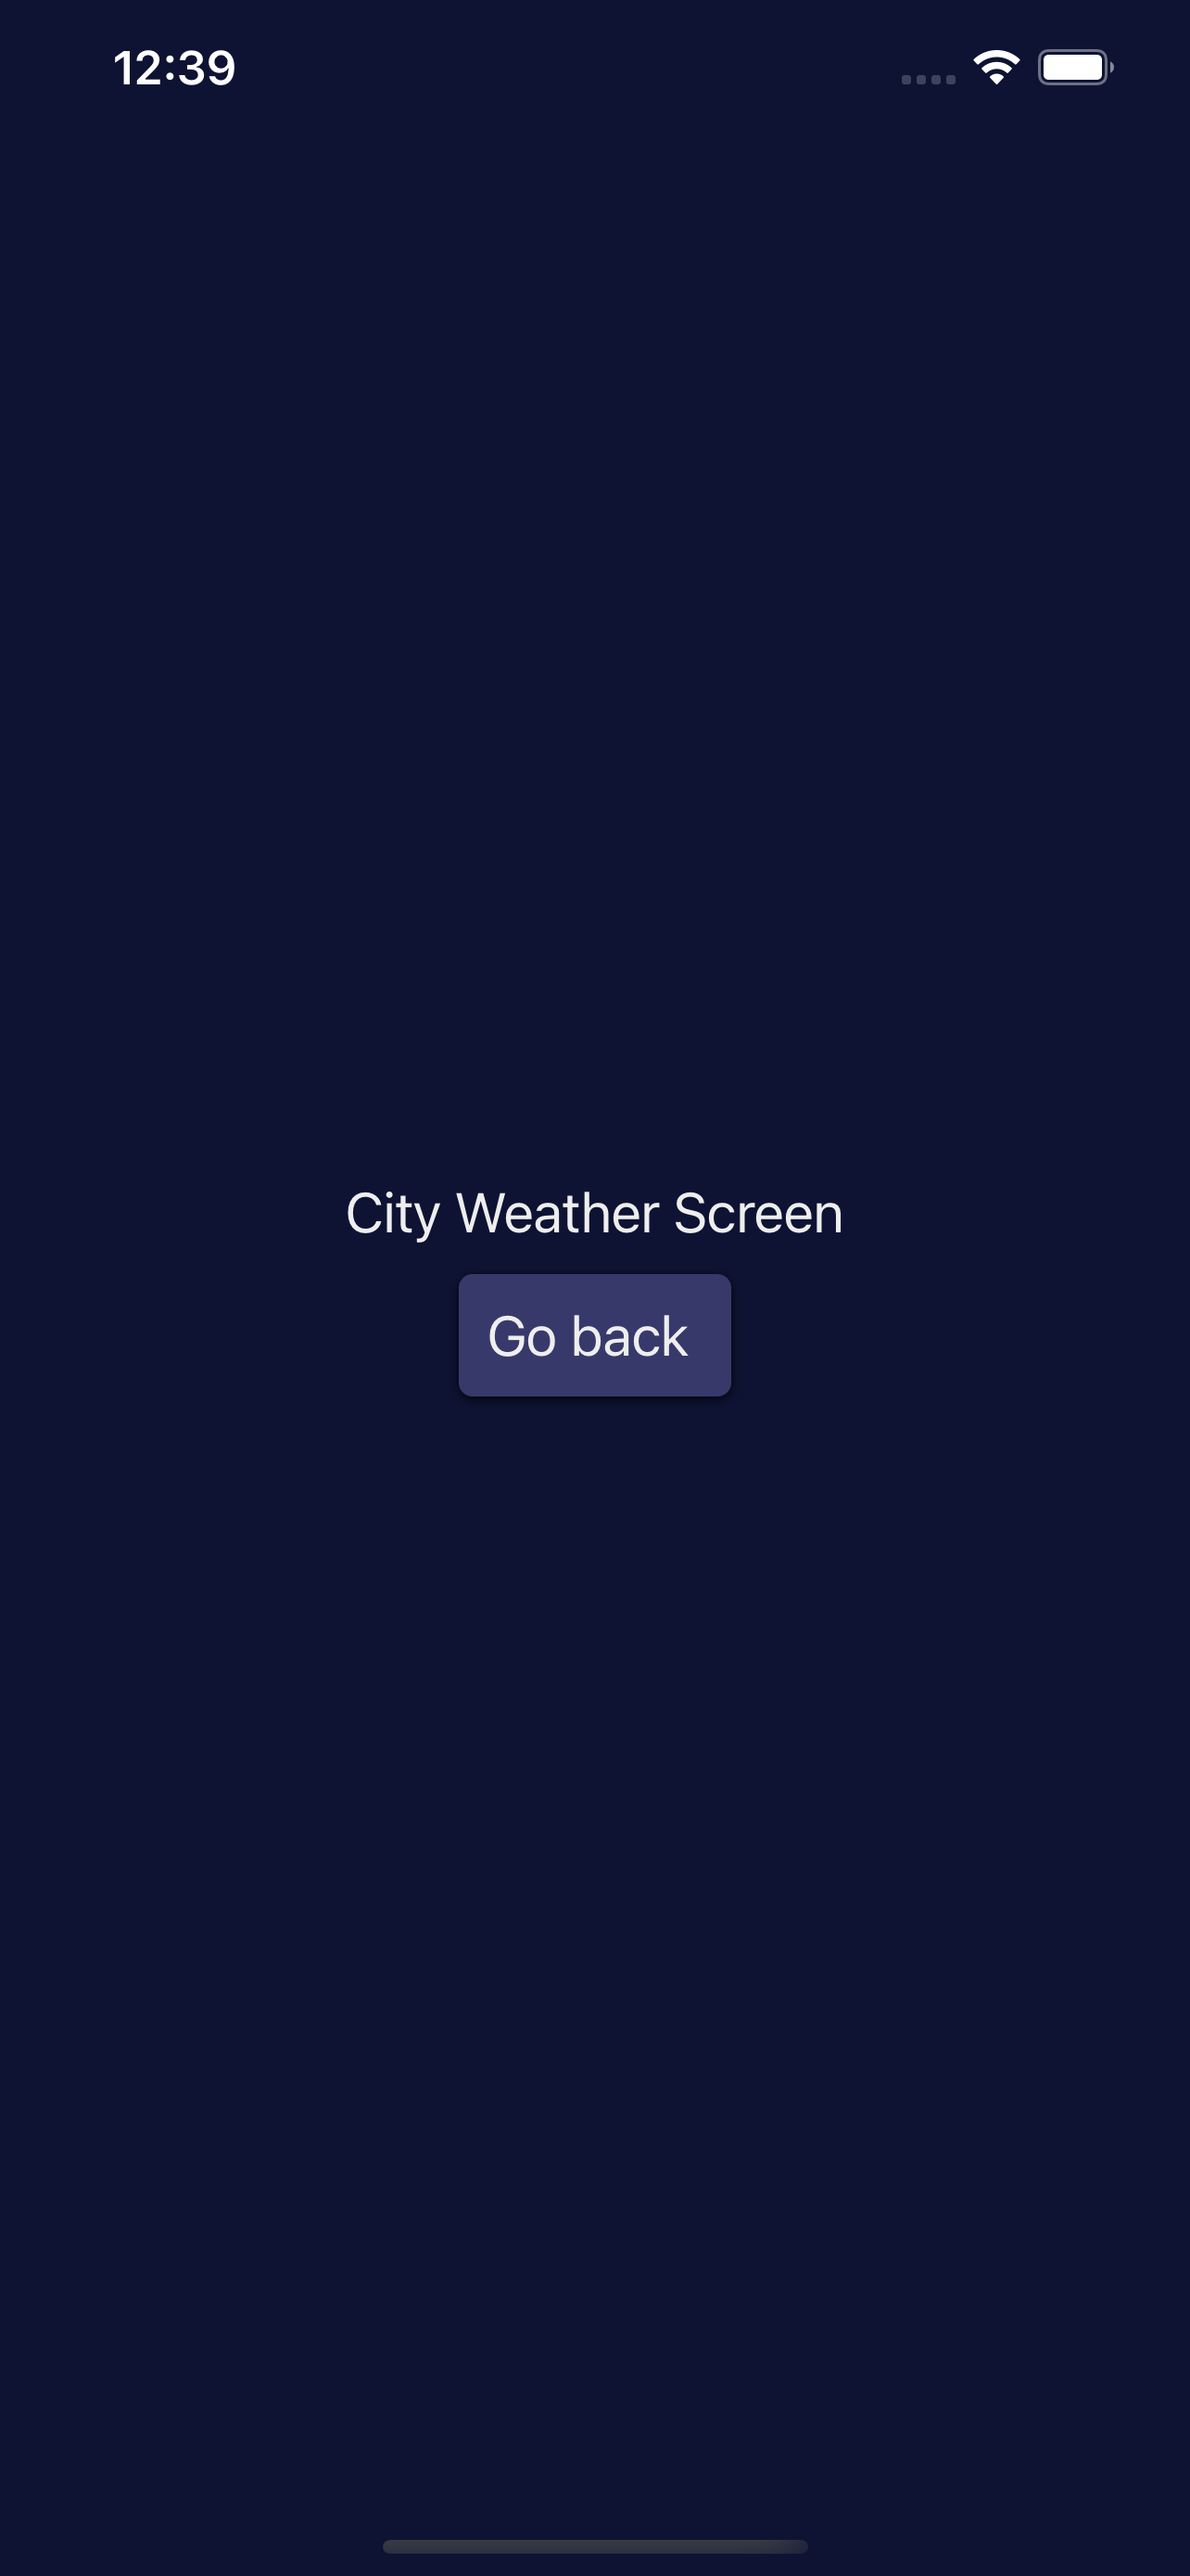
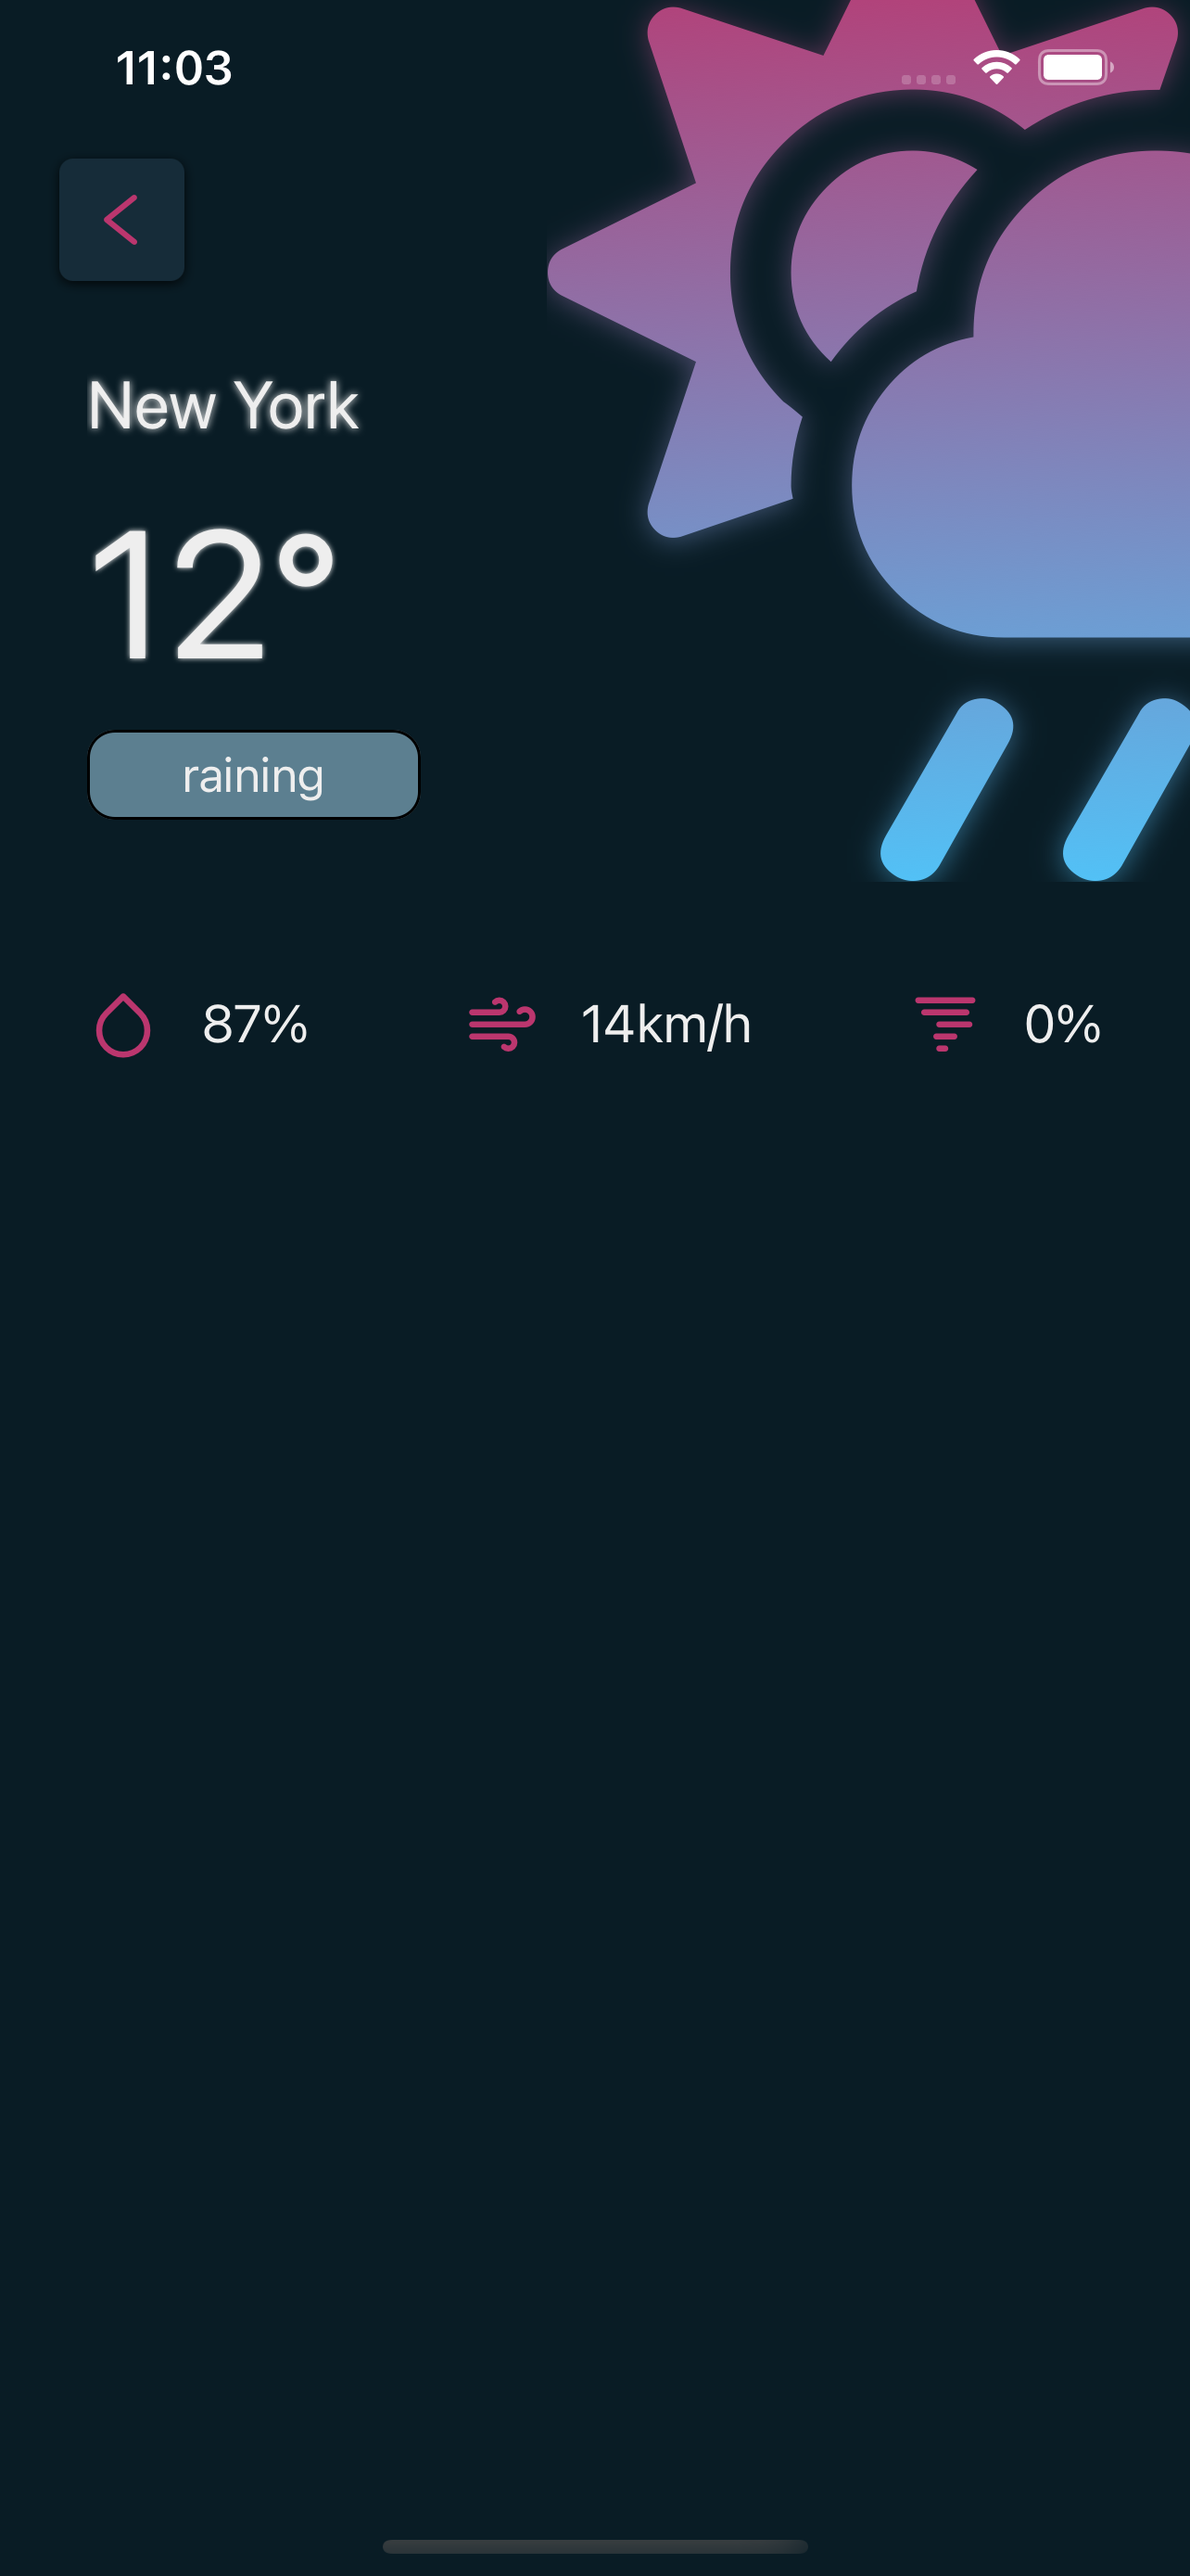
CityWeatherScreen UI update

diff --git a/screens/CityWeatherScreen.js b/screens/CityWeatherScreen.js
@@ -1,18 +1,184 @@
 import React from "react";
-import { View, StyleSheet, Text, TouchableOpacity } from "react-native";
+import {
+  View,
+  StyleSheet,
+  Text,
+  TouchableOpacity,
+  SafeAreaView,
+  StatusBar,
+  Platform,
+} from "react-native";
 import { COLORS } from "../assets/theme/colors";
+import { AntDesign } from "@expo/vector-icons";
+import { FontAwesome5 } from "@expo/vector-icons";
+import { Feather } from "@expo/vector-icons";
+import { Ionicons } from "@expo/vector-icons";
+import { LinearGradient } from "expo-linear-gradient";
+import MaskedView from "@react-native-community/masked-view";
+import { MaterialCommunityIcons } from "@expo/vector-icons";
 
-export default CityWeatherScreen = ({ navigation }) => {
+export default CityWeatherScreen = ({ route, navigation }) => {
+  const weatherConditionMap = {
+    snowy: (
+      <FontAwesome5
+        name="snowflake"
+        size={350}
+        color={COLORS.secondaryVariant}
+        style={styles.shadow}
+      />
+    ),
+    sunny: (
+      <Ionicons
+        name="sunny"
+        size={350}
+        color={COLORS.secondaryVariant}
+        style={styles.shadow}
+      />
+    ),
+    cloudy: (
+      <Ionicons
+        name="cloudy"
+        size={350}
+        color={COLORS.secondaryVariant}
+        style={styles.shadow}
+      />
+    ),
+    raining: (
+      <FontAwesome5
+        name="cloud-sun-rain"
+        size={350}
+        color={COLORS.secondaryVariant}
+        style={styles.shadow}
+      />
+    ),
+  };
+
   return (
-    <View style={styles.container}>
-      <Text style={styles.text}>City Weather Screen</Text>
-      <TouchableOpacity
-        onPress={() => navigation.goBack()}
-        style={styles.button}
-      >
-        <Text style={styles.text}>Go back </Text>
-      </TouchableOpacity>
-    </View>
+    <SafeAreaView style={styles.container}>
+      <View style={{ width: "90%" }}>
+        {/* Back Button */}
+        <TouchableOpacity
+          onPress={() => navigation.goBack()}
+          style={styles.backButton}
+        >
+          <AntDesign name="left" size={24} color={COLORS.secondaryVariant} />
+        </TouchableOpacity>
+        {/* Top City Details */}
+        <View style={{ marginHorizontal: 10 }}>
+          {/* City Name */}
+          <Text style={styles.cityName}>{route.params.city}</Text>
+          <Text style={styles.temp}>{route.params.temperature}°</Text>
+          <View style={styles.condition}>
+            <Text style={{ fontSize: 17, color: COLORS.onPrimary }}>
+              {route.params.weatherCondition}
+            </Text>
+          </View>
+        </View>
+        {/* Weather Condition Icon */}
+        <View
+          style={{
+            width: 350,
+            position: "absolute",
+            right: -140,
+            top: -80,
+            zIndex: -1,
+          }}
+        >
+          <MaskedView
+            style={{ flex: 1, flexDirection: "row", height: 350 }}
+            maskElement={
+              <View
+                style={{
+                  backgroundColor: "transparent",
+                  justifyContent: "center",
+                  alignItems: "center",
+                }}
+              >
+                {weatherConditionMap[route.params.weatherCondition]}
+              </View>
+            }
+          >
+            <LinearGradient
+              colors={[
+                COLORS.secondaryVariant,
+                COLORS.secondaryVariantGradient,
+              ]}
+              style={{ flex: 1 }}
+            ></LinearGradient>
+          </MaskedView>
+        </View>
+        {/* End Weather Condition icon */}
+
+        <View
+          style={{
+            flexDirection: "row",
+            alignItems: "center",
+            justifyContent: "space-between",
+            marginTop: 60,
+            paddingHorizontal: 10,
+          }}
+        >
+          <View
+            style={{
+              flexDirection: "row",
+              alignItems: "center",
+              justifyContent: "center",
+            }}
+          >
+            <Feather name="droplet" size={26} color={COLORS.secondaryVariant} />
+            <Text
+              style={{
+                marginLeft: 15,
+                color: COLORS.onPrimary,
+                fontSize: 19,
+              }}
+            >
+              {route.params.rain}%
+            </Text>
+          </View>
+          <View
+            style={{
+              flexDirection: "row",
+              alignItems: "center",
+              justifyContent: "center",
+            }}
+          >
+            <Feather name="wind" size={26} color={COLORS.secondaryVariant} />
+            <Text
+              style={{
+                marginLeft: 15,
+                color: COLORS.onPrimary,
+                fontSize: 19,
+              }}
+            >
+              {route.params.wind}km/h
+            </Text>
+          </View>
+          <View
+            style={{
+              flexDirection: "row",
+              alignItems: "center",
+              justifyContent: "center",
+            }}
+          >
+            <MaterialCommunityIcons
+              name="weather-tornado"
+              size={26}
+              color={COLORS.secondaryVariant}
+            />
+            <Text
+              style={{
+                marginLeft: 15,
+                color: COLORS.onPrimary,
+                fontSize: 19,
+              }}
+            >
+              0%
+            </Text>
+          </View>
+        </View>
+      </View>
+    </SafeAreaView>
   );
 };
 
@@ -21,13 +187,37 @@ const styles = StyleSheet.create({
     flex: 1,
     backgroundColor: COLORS.primaryVariant,
     alignItems: "center",
-    justifyContent: "center",
+    marginTop: Platform.OS === "ios" ? 0 : StatusBar.currentHeight,
   },
-  text: {
+  cityName: {
+    marginTop: 30,
     color: COLORS.onPrimary,
-    fontSize: 20,
+    fontSize: 24,
+    textShadowColor: COLORS.onPrimary,
+    textShadowOffset: { width: 0, height: 0 },
+    textShadowRadius: 3,
   },
-  button: {
+  temp: {
+    marginTop: 15,
+    fontSize: 65,
+    color: COLORS.onPrimary,
+    textShadowColor: COLORS.onPrimary,
+    textShadowOffset: { width: 0, height: 0 },
+    textShadowRadius: 2,
+  },
+  condition: {
+    maxWidth: 120,
+    marginTop: 10,
+    alignItems: "center",
+    backgroundColor: COLORS.secondary,
+    paddingVertical: 5,
+    borderWidth: 1,
+    borderRadius: 10,
+  },
+  backButton: {
+    // top: Platform.OS === "ios" ? 44 : StatusBar.currentHeight,
+    // left: 20,
+    // position: "absolute",
     backgroundColor: COLORS.primary,
     padding: 10,
     marginTop: 10,
@@ -37,5 +227,15 @@ const styles = StyleSheet.create({
     shadowOpacity: 0.8,
     shadowRadius: 2,
     elevation: 5,
+    maxWidth: 45,
+  },
+  shadow: {
+    shadowColor: COLORS.black,
+    shadowOpacity: 0.5,
+    shadowRadius: 5,
+    shadowOffset: {
+      width: 0,
+      height: 1,
+    },
   },
 });

diff --git a/Components/AddCityModal.js b/Components/AddCityModal.js
@@ -23,7 +23,7 @@ export default AddCityModal = ({ modalVisible, handleModalClose }) => {
         <View style={styles.modalHeading}>
           <Text style={styles.modalTitle}>Add City</Text>
           <Pressable onPress={() => handleModalClose()}>
-            <AntDesign name="close" size={24} color={COLORS.onPrimary} />
+            <AntDesign name="close" size={24} color={COLORS.secondaryVariant} />
           </Pressable>
         </View>
         <View style={styles.modalBody}>

diff --git a/Components/CityWeatherCard.js b/Components/CityWeatherCard.js
@@ -144,7 +144,7 @@ const styles = StyleSheet.create({
     width: "40%",
   },
   shadow: {
-    shadowColor: "black",
+    shadowColor: COLORS.black,
     shadowOpacity: 0.5,
     shadowRadius: 5,
     shadowOffset: {
